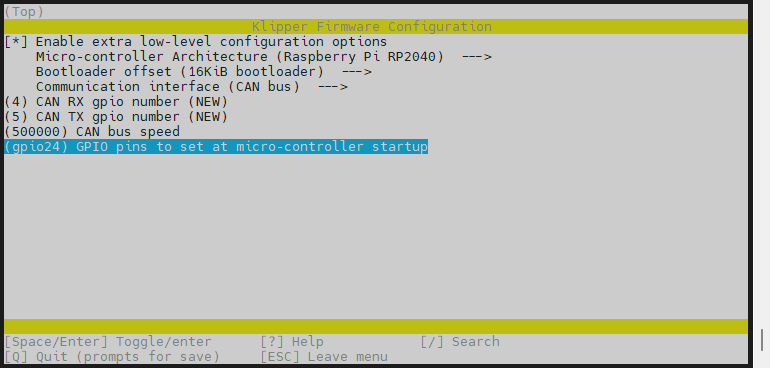
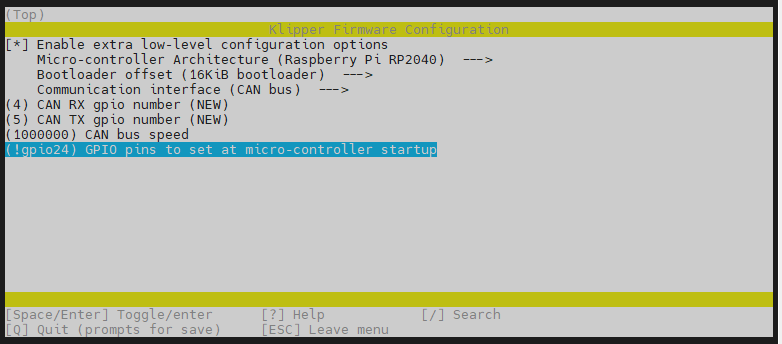
添加主板桥接can方法示例配置，优化部分文档

Changed region(s): [[0.0, 0.0, 0.9974, 1.0]]

diff --git a/docs/advanced/usb2can.md b/docs/advanced/usb2can.md
@@ -1,24 +1,141 @@
 # Klipper的USB桥接CAN
 
 > [!TIP]
-> 此教程使用Fly-Super8做演示
+> 此教程使用Fly主板进行演示
 
-## 为Super8编译USB桥接CAN固件
+* 本教程中将使用到**FLY的上位机**，一张**需要刷桥接固件的D5主板**，与**刷了1M速率的SHT36-072版本**
 
-* Klipper配置
+## 为D5编译USB桥接CAN固件
 
-![config](../../images/adv/usb2can/1.png ":no-zooom")
+* 其他主板请看官方对应的**USB桥接CAN固件**
+* 请注意固件必须与参考官方提供的配置，请不要随意修改参数
 
-* 如何编译固件参考[固件编译](/introduction/firmware)
-  
+1. 将SHT36-V2接到D5主板，**请注意CAN线需要接上12V或者24V电压**，另外一端无需接电源！！！
 
-## 烧录固件
+![can](../images/boards/fly_d5/canbridge.png)
 
-* 参考[固件烧录](/board/fly_super8_pro/flash)
+2. 先给D5主板刷桥接固件
 
-## 接线
+```
+cd klipper
+make menuconfig
+```
 
-* Fly-SHT工具板无需修改固件，依然是CAN PB8,9
+![d5](../images/boards/fly_d5/can.png)
 
-* 将SHT板的CANH,CANL两线接到Super8的CANH,CANL
-* SHT板需要连接两个终端电阻跳线帽
+编译，烧录请看[D5固件烧录](http://mellow.klipper.cn/#/board/fly_d5/flash?id=_2-boot按键)
+
+```
+make clean
+make -j4
+```
+
+3. 主板刷完固件后建议断开电源在插上电源连接
+4. 上位机连接ss后输入**lsusb**，可以看到上位机
+
+![can](../images/adv/lsusb.png)
+
+5. 查找CANid
+
+```
+~/klippy-env/bin/python ~/klipper/scripts/canbus_query.py can0
+```
+
+![canid](../images/adv/canid.png)
+
+出现`Found canbus_uuid=18b1d7c39ac3`则查找到CANID。其中`18b1d7c39ac3`为D5主板uuid，可直接填入klipper配置文件。
+
+* 请注意如果有两个ID并且无法判断哪个是工具id，可以断电拆了工具板来判断！
+* 请确保上位机CAN速率与固件的CAN速率完全一致！！！[参考文档](http://mellow.klipper.cn/#/guide/klippererro/problem?id=确认can速率)
+
+## 为SHT36编译USB桥接CAN固件
+
+1. 编译SHT36固件
+
+* 请确保接线正确!!!
+* 请按提供的配置来选择
+
+```
+cd klipper
+make menuconfig
+```
+
+![config](../images/boards/fly_sht_v2/config_072.png ":no-zooom")
+
+```
+make clean
+make -j4
+```
+
+烧录固件
+
+```bash
+python3 ~/klipper/lib/canboot/flash_can.py -q
+```
+
+请注意，搜索到id后是显示``Application: Canboot``前面id才是工具板id
+
+下图中高亮部分``53707ab04e74``就是这块SHTv2板的uuid，这个uuid每块板子都不一样。同一块SHTv2板烧录固件后uuid是不会变的
+
+![canid](../images/adv/canid.png)
+
+* 接线是否正确，例如CANH 和 CANL是否接反或者接触不良
+* SHT36 V2板上的120Ω跳线帽是否插上
+* 您的镜像内核是否支持CAN
+
+如果确认没有上述问题，则可以尝试在**通电状态**下强制进入CanBoot来解决。此方法也可以在刷错固件连不上工具板之后尝试。进入CanBoot的方法如下，请小心使用！！！以免损坏SHT工具板！！！
+
+如果成功进入Canboot，下图中的LED灯会以一定的频率闪烁
+
+![config](../images/boards/fly_sht_v2/statusled.png ":no-zooom")
+
+### 烧录固件
+
+将下面命令中的``53707ab04e74``替换为[查找uuid](#_2-查找uuid "点击即可跳转")中查找到的uuid
+
+```bash
+python3 ~/klipper/lib/canboot/flash_can.py -u 53707ab04e74
+```
+
+如下图，出现``CAN Flash Success``则烧录成功
+
+![sht36](../images/adv/sht36.png)
+
+3. 检查
+
+   如果正确配置编译并烧录成功，则SHTv2板的这个灯会常亮
+
+![config](../images/boards/fly_sht_v2/statusled.png ":no-zooom")
+
+
+
+## 重新查询CANID
+
+烧录完成后需要重新查询CANid确保烧录无误
+
+```
+python3 ~/klipper/lib/canboot/flash_can.py -q
+```
+
+![sht36](../images/adv/sht36-1.png)
+
+
+
+## Klipper的mcu配置
+
+* 请确保CANid没有搞混
+* 其他配置请自行添加，这边只做简单简介
+
+```cfg
+[mcu]                           # D5主板ID
+#serial: /dev/serial/by-id/usb-Klipper_stm32f072xb_************************
+### 查询usb固件id是：ls /dev/serial/by-id/
+### 把/dev/serial/by-id/usb-Klipper_stm32f072xb_************************替换查询到的id
+canbus_uuid: 18b1d7c39ac3
+### 查询can固件id是：~/klippy-env/bin/python ~/klipper/scripts/canbus_query.py can0
+### can的id需要把serial替换成canbus_uuid: 后面添加id 
+
+[mcu SHT36]                     # SHT36主板ID
+canbus_uuid: 53707ab04e74
+```
+

diff --git a/docs/board/fly_C8/README.md b/docs/board/fly_C8/README.md
@@ -4,7 +4,7 @@
 
 由于FLY-C8在一个软件包中同时具有控制板（STM32）和linux板，因此不需要树莓派（目前非价格仍然昂贵）。增强5v电源保护，降低芯片损坏的可能性。取消了MCU芯片的存储卡设置，更容易安装固件。无需使用Can Hat即可与工具板通信。EMMc+SDIO扩展支持主板的wifi和16G存储功能。
 
-设计这款上位机的目的是让客户更容易使用Klipper固件或RRF固件。我们对LINUX系统镜像进行优化，更适合3D打印机使用，操作安装也更简单，小白稍有基础也能很快的学习使用。相对于其他上位机板子节省了学习成本，让你可以更专注于享受3D打印带来的快乐(购买带SD卡的套餐预装Klipper固件，上电就能用省时又省事)。
+设计这款上位机的目的是让客户更容易使用Klipper固件或RRF固件。我们对LINUX系统镜像进行优化，更适合3D打印机使用，操作安装也更简单，小白稍有基础也能很快的学习使用。相对于其他上位机板子节省了学习成本，让你可以更专注于享受3D打印带来的快乐(购买M2WE的套餐预装Klipper固件，上电就能用省时又省事)。
 
 
 

diff --git a/docs/board/fly_C8/flash.md b/docs/board/fly_C8/flash.md
@@ -35,6 +35,11 @@
 
 ![MAKE](../../images/adv/make.gif)
 
+```
+cd klipper
+make menuconfig
+```
+
 <!-- tabs:start -->
 
 ### **USB固件配置**
@@ -52,7 +57,14 @@
 
 <!-- tabs:end -->
 
-* 执行命令```make -j4```来编译固件
+* 编译固件
+
+```
+make clean
+make -j4
+```
+
+
 
 ## 3. 固件烧录
 
@@ -71,15 +83,6 @@ sudo fly-flash -d c8 -h -f ~/klipper/out/klipper.bin
 
 * 注意：以上命令烧录固件会将``~/klipper/out/klipper.bin``烧录到下位机，请在烧录前编译好固件
 
-> [!Warning]
-> 请注意烧录完固件无需执行下方指令
-
-* 进入烧录模式
-
-```bash
-sudo fly-flash -d c8 -h
-```
-
 
 * 正常启动MCU
 
@@ -87,21 +90,9 @@ sudo fly-flash -d c8 -h
 sudo fly-flash -d c8 -s
 ```
 
-* 重置MCU
-
-```bash
-sudo fly-flash -d c8 -r
-```
-
-* 进入DFU
-
-```bash
-sudo fly-flash -d c8 -u
-```
-
 > [!TIP]
 > 烧录完成后无需将插入任何跳线
 
 > [!warning]
-> 读取主板ID时，请使用12/24V供电，否则会导致读不到ID！！！
+> 如果需要读取CAN工具板ID时，请使用12/24V供电，否则会导致读不到ID！！！
 

diff --git a/docs/board/fly_sb2040_pro/cfg.md b/docs/board/fly_sb2040_pro/cfg.md
@@ -103,15 +103,7 @@ run_current: 0.65                   # 电机运行电流值
 interpolate: False                  # 是否开启256微步插值（不建议开启）
 rref: 12300                         # 驱动采样电阻
 stealthchop_threshold: 99999        # 静音阀值（如果不需要静音，请将数值改为0）
-
-#####################################################################
-#                             温度检测
-#####################################################################
-##klipper还未支持，可以自行支持
-## https://github.com/Klipper3d/klipper/pull/6210
-# [temperature_sensor 2240]
-# sensor_type: temperature_driver
-# sensor_driver: tmc2240 extruder
+driver_TPFD: 0
 
 #####################################################################
 #                             风扇配置

diff --git a/docs/board/fly_sht_v2/flash.md b/docs/board/fly_sht_v2/flash.md
@@ -61,9 +61,10 @@
 3. 编译
 
     ```bash
+    make clean
     make -j4
     ```
-
+    
      最后出现**Creating hex file out/klipper.bin**则编译成功
 
 ## 4.2 查找uuid
@@ -92,9 +93,11 @@ cd CanBoot
 python3 ~/klipper/lib/canboot/flash_can.py -q
 ```
 
-下图中高亮部分``365f54003b9d``就是这块SHTv2板的uuid，这个uuid每块板子都不一样。同一块SHTv2板烧录固件后uuid是不会变的
+请注意，搜索到id后是显示``Application: Canboot``前面id才是工具板id
 
-![config](../../images/boards/fly_sht_v2/uuid.png ":no-zooom")
+下图中高亮部分``53707ab04e74``就是这块SHTv2板的uuid，这个uuid每块板子都不一样。同一块SHTv2板烧录固件后uuid是不会变的
+
+![canid](../../images/adv/canid.png)
 
 > [!TIP]
 > 如果找不到CAN ID，请检查：

diff --git a/docs/guide/klippererro/FLYPI.md b/docs/guide/klippererro/FLYPI.md
@@ -36,9 +36,10 @@
 
 <img src="../../images/system/ssh5.png" alt="putty" title=":no-zooom" style="zoom:80%;" />
 
-* 查看IP，如果配置了FLY-Config中的WIFI则开机后就会自动连接
-* 在终端中输入命令```ip a|grep inet```回车
-* 在返回内容中找到与你路由器同段的IP即可访问
+* 请确保系统盘已经正常烧录！！！
+* 如果不确定系统盘是否烧录成功可以直接将sd卡接但电脑上查看是否有boot盘弹出！！！
+* 系统未启动可以按上位机重置键，判断系统是否启动！！！
+* 确定了系统盘烧录正常，并且ssh连接正常但是没有任何信息显示，请直接咨询客服！！！
 
 > 如果是主板启动很久后才连接的SSH那么请连接后按几下回车键
 

diff --git a/docs/board/fly_gemini_v3/flash.md b/docs/board/fly_gemini_v3/flash.md
@@ -25,6 +25,11 @@
 
 ![MAKE](../../images/adv/make.gif)
 
+```
+cd klipper
+make menuconfig
+```
+
 <!-- tabs:start -->
 
 ### **普通USB固件配置**
@@ -41,7 +46,14 @@
 
 <!-- tabs:end -->
 
-* 执行命令```make -j4```来编译固件
+* 编译固件
+
+```
+make clean
+make -j4
+```
+
+
 
 ## 3. 固件烧录
 
@@ -64,21 +76,8 @@ sudo fly-flash -d gemini-v3 -h -f ~/klipper/out/klipper.bin
 >[!Warning]
 >请注意烧录完固件无需执行下方指令
 
-* 进入烧录模式
-
-```bash
- sudo fly-flash -d gemini-v3 -h
-```
-
 * 正常启动MCU
 
 ```bash
 sudo fly-flash -d gemini-v3 -s
-```
-
-
-* 重置MCU
-
-```bash
-sudo fly-flash -d gemini-v3 -r
 ```

diff --git a/docs/board/fly_sb2040_pro/flash.md b/docs/board/fly_sb2040_pro/flash.md
@@ -128,21 +128,6 @@ lsusb
 
 <!-- tabs:end -->
 
-编译
-
-```bash
-make clean
-make -j4
-```
-
- 使用canboot烧录的固件最后出现**Creating hex file out/klipper.bin**则编译成功
-
- 使用usb烧录的固件最后出现**Creating uf2 file out/klipper.uf2**则编译成功
-
-
-
-
-
 ## 3. 检查
 
 如果正确配置编译并烧录成功，则SB2040-PRO板的这个灯会常亮

diff --git a/docs/board/fly_sht_v2/canbootflash.md b/docs/board/fly_sht_v2/canbootflash.md
@@ -1,7 +1,9 @@
 # 编译固件
 
 > [!TIP]
-> CanBoot固件默认500k
+> 请注意刷完Canboot后需要快速短接下方电容，刷写Canboot不会覆盖Klipper！！
+
+<img src="../../images/boards/fly_sht_v2/canboot.png" alt="canboot" style="zoom:80%;" />
 
 编译固件前请确保 [连接到SSH](/board/fly_pi/FLY_π_description5 "点击即可跳转")
 

diff --git a/docs/guide/klippererro/command.md b/docs/guide/klippererro/command.md
@@ -6,7 +6,9 @@ Klipper链接:[STEPPER_BUZZ](https://www.klipper3d.org/G-Codes.html?h=stepper+bu
 
 ```
 STEPPER_BUZZ STEPPER=stepper_x
+STEPPER_BUZZ STEPPER=stepper_x1
 STEPPER_BUZZ STEPPER=stepper_y
+STEPPER_BUZZ STEPPER=stepper_y1
 STEPPER_BUZZ STEPPER=stepper_z
 STEPPER_BUZZ STEPPER=stepper_z1
 STEPPER_BUZZ STEPPER=stepper_z2

diff --git a/docs/board/fly_sht36_pro/flash.md b/docs/board/fly_sht36_pro/flash.md
@@ -45,10 +45,11 @@
     编译
 
     ```bash
+    make clean
     make -j4
     ```
     
-     使用canboot烧录的固件最后出现**Creating hex file out/klipper.bin**则编译成功
+     使用canboot烧录的固件最后出现**Creating hex file out/klipper.uf2**则编译成功
     
     ### 使用CANBOOT烧录
     
